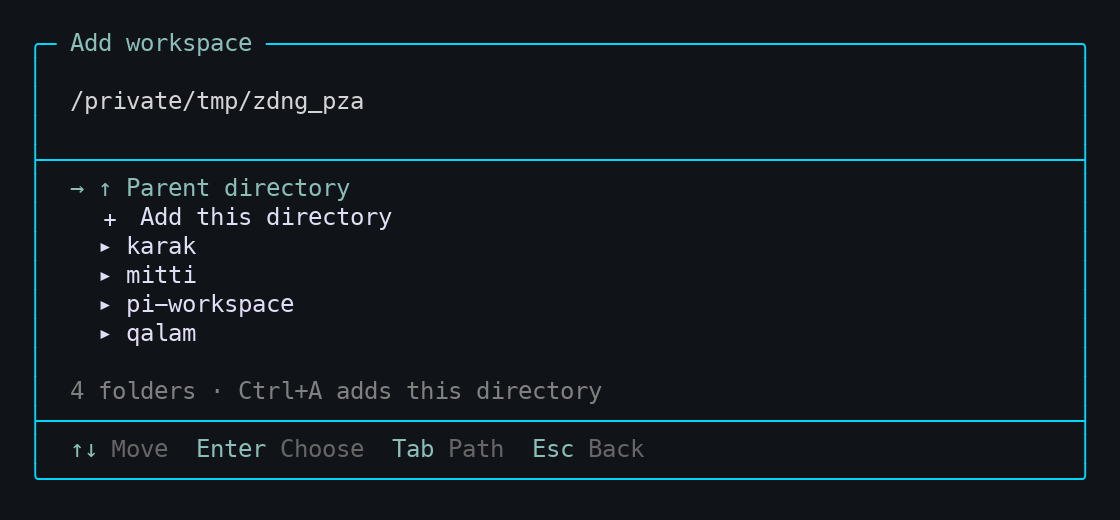
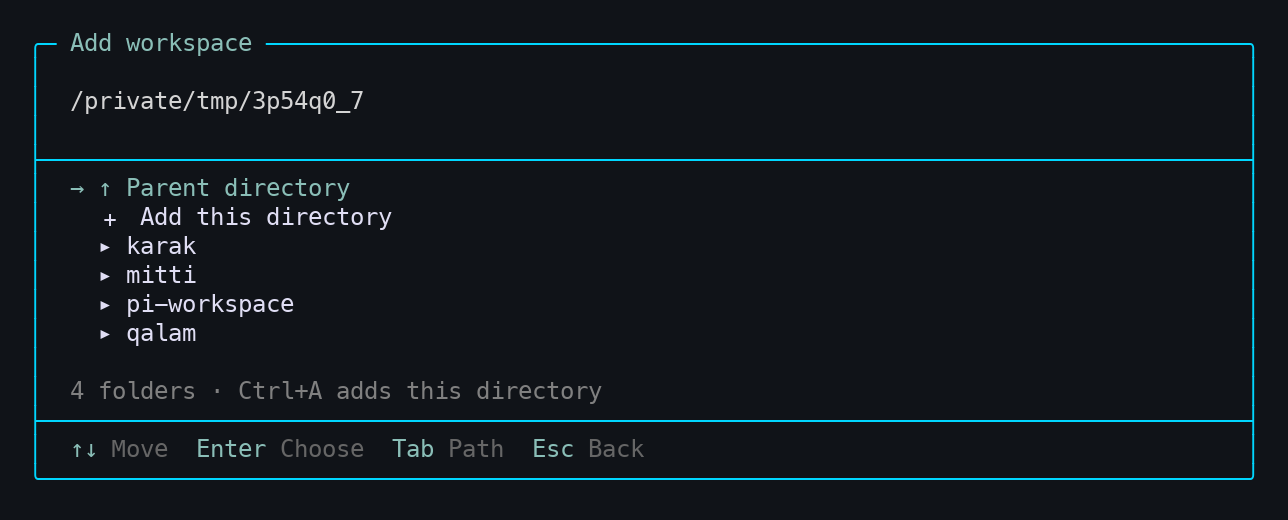
updated readme

diff --git a/src/picker.ts b/src/picker.ts
@@ -112,7 +112,7 @@ export class WorkspacePicker implements Component, Focusable {
           const count = this.sessions.filter((s) => s.workspace === item.path).length;
           choices.push({ value: item.path,
             label: `${item.path === this.activePath ? "●" : this.state.pinned.includes(item.path) ? "★" : " "} ${displayText(item.name)}`,
-            description: `${displayText(item.path)} · ${count ? `${count} sessions` : "New session"}` });
+            description: `${displayText(item.path)} · ${count ? `${count} session${count === 1 ? "" : "s"}` : "New session"}` });
         }
       }
     } else {
@@ -123,8 +123,8 @@ export class WorkspacePicker implements Component, Focusable {
         choices.push({ value: "new", label: "＋ New session", description: "Independent conversation in this project" });
       }
       for (const session of searchSessions(candidates, query, this.navigation?.contentSearch)) {
-        choices.push({ value: `session:${session.path}`, label: displayText(sessionTitle(session)),
-          description: `${this.mode === "search" ? `${displayText(basename(session.workspace))} · ` : ""}${session.modified.toISOString().slice(0, 16).replace("T", " ")} UTC` });
+        choices.push({ value: `session:${session.path}`, label: `${this.mode === "search" ? `${displayText(basename(session.workspace))} → ` : ""}${displayText(sessionTitle(session))}`,
+          description: `${session.modified.toISOString().slice(0, 16).replace("T", " ")} UTC${this.mode === "search" ? ` · ${displayText(session.workspace)}` : ""}` });
       }
       if (this.mode === "sessions" && query) choices.push({ value: "new", label: "＋ New session" });
     }
@@ -193,11 +193,20 @@ export class WorkspacePicker implements Component, Focusable {
     const label = contentWidth >= 20 ? "Search  " : "";
     const input = this.input.render(Math.max(1, contentWidth - label.length))[0] ?? "";
     const title = this.mode === "workspaces" ? "Switch workspace" : this.mode === "search" ? "Search all sessions" : `Sessions · ${displayText(this.destination?.name ?? "")}`;
-    const hint = this.mode === "workspaces" ? "↑↓ Move  Enter Sessions  ^A Add  ^P Pin  ^S Search  ^R Scan  Esc"
+    const hint = contentWidth < 28 ? "Enter  Esc" : this.mode === "workspaces"
+      ? contentWidth < 70 ? "↑↓  Enter  ^A  ^P  ^S  ^R  Esc" : "↑↓ Move  Enter Sessions  ^A Add  ^P Pin  ^S Search  ^R Scan  Esc"
       : "↑↓ Move  Enter Open  Esc Back";
-    const status = this.mode === "search" ? `project:name after:YYYY-MM-DD before:YYYY-MM-DD · ${this.navigation?.contentSearch ? "content enabled" : "metadata only"}` : this.message;
+    const footer = hint.split("  ").map((part) => {
+      const [key, ...words] = part.split(" ");
+      return this.theme.fg("accent", key) + (words.length ? ` ${this.theme.fg("dim", words.join(" "))}` : "");
+    }).join("  ");
+    const count = this.sessions.filter((s) => s.workspace === this.destination?.path).length;
+    const status = this.message || (this.mode === "search"
+      ? `project:name after:YYYY-MM-DD before:YYYY-MM-DD · ${this.navigation?.contentSearch ? "content enabled" : "metadata only"}`
+      : this.mode === "sessions" ? `${count} session${count === 1 ? "" : "s"} · ${this.destination?.path}`
+      : `${this.items.length} projects · ★ pinned · ● active`);
     return renderModal(this.theme, width, { title, top: this.theme.fg("dim", label) + input,
-      body: this.list.render(contentWidth), status: displayText(status), footer: this.theme.fg("dim", hint) });
+      body: this.list.render(contentWidth), status: displayText(status), footer });
   }
   invalidate(): void { this.input.invalidate(); this.list.invalidate(); this.browser?.invalidate(); }
   dispose(): void { this.browser?.dispose(); this.browser = undefined; }

diff --git a/src/index.ts b/src/index.ts
@@ -69,7 +69,7 @@ export default async function workspaceExtension(pi: ExtensionAPI) {
         const currentBranch = config.showBranch ? await gitBranch(cwd) : undefined;
         if (stopped) return;
         activePath = active; items = next; state = nextState; sessions = indexed; branch = currentBranch;
-        message = `${items.length} projects · ★ pinned · ● active`;
+        message = "";
       } catch (error) { if (!stopped) message = `Cannot load workspaces: ${String(error)}`; }
       finally { if (!stopped) { updatePicker(); status(ctx); } }
     })().finally(() => { refreshTask = undefined; });

diff --git a/scripts/capture-screenshots.py b/scripts/capture-screenshots.py
@@ -93,11 +93,17 @@ with tempfile.TemporaryDirectory(prefix="", dir="/tmp") as directory, \
     setup = """
       import {SessionManager} from '@earendil-works/pi-coding-agent';
       import {writeFileSync} from 'node:fs';
-      console.log(JSON.stringify(process.argv.slice(1).map(cwd => {
+      const create = (cwd, name) => {
         const sm=SessionManager.create(cwd);
         writeFileSync(sm.getSessionFile(),JSON.stringify(sm.getHeader())+'\\n');
+        SessionManager.open(sm.getSessionFile()).appendSessionInfo(name);
         return sm.getSessionFile();
-      })));
+      };
+      const dirs = process.argv.slice(1);
+      const files = dirs.map((cwd, i) => create(cwd, ['Workspace navigation', 'Optimize HTTP request handling', 'ASGI cleanup', 'Knowledge search'][i]));
+      create(dirs[1], 'Investigate free-threading');
+      create(dirs[1], 'Fix benchmark regressions');
+      console.log(JSON.stringify(files));
     """
     files = json.loads(subprocess.check_output(
         ["node", "--input-type=module", "-e", setup, *[str(projects / name) for name in names]],
@@ -105,6 +111,10 @@ with tempfile.TemporaryDirectory(prefix="", dir="/tmp") as directory, \
     ))
     for index, file in enumerate(files):
         os.utime(file, (time.time() - index * 60, time.time() - index * 60))
+    (Path(agent_directory) / "agent" / "workspace-state.json").write_text(json.dumps({
+        "version": 1, "pinned": [str(projects / "karak")], "recent": [str(projects / "mitti")],
+        "sessions": {str(projects / "karak"): files[1]}, "discovered": [],
+    }))
     master, slave = pty.openpty()
     fcntl.ioctl(slave, termios.TIOCSWINSZ, struct.pack("HHHH", 36, 110, 0, 0))
     proc = subprocess.Popen(
@@ -131,6 +141,11 @@ with tempfile.TemporaryDirectory(prefix="", dir="/tmp") as directory, \
         os.write(master, b"\x18")  # Ctrl+X
         drain(1)
         save_modal(screen, "Switch workspace", ASSETS / "workspace-picker.png")
+        os.write(master, b"karak\r")  # Search pinned workspace → session menu
+        drain(1)
+        save_modal(screen, "Sessions", ASSETS / "workspace-sessions.png")
+        os.write(master, b"\x1b")
+        drain(0.5)
         os.write(master, b"\x01")  # Ctrl+A
         drain(1)
         save_modal(screen, "Add workspace", ASSETS / "add-workspace.png")

diff --git a/docs/runtime-verification.md b/docs/runtime-verification.md
@@ -1,0 +1,68 @@
+# Runtime verification — source 0.2.0
+
+Tested against installed `@earendil-works/pi-coding-agent` **0.80.6** on macOS, with Node **22.23.2**. No Pi core changes are made.
+
+## New sessions in another directory
+
+The extension command `ctx.newSession()` does not accept a destination cwd in this Pi version. `SessionManager.create(cwd)` allocates a public session identity/path, but persistence is lazy and there is no public flush method.
+
+The implementation uses a small, explicit bridge:
+
+1. Validate and canonicalize the chosen directory.
+2. Call public `SessionManager.create(cwd)`.
+3. Read its public `getHeader()` and `getSessionFile()` values.
+4. Exclusively create the new file (`wx`, mode 0600) and write only that documented JSONL session header; sync and close it.
+5. Validate ownership, recheck idle state, and call public `ctx.switchSession(file, { withSession })`.
+6. In the fresh context, compare canonical runtime cwd, session cwd, and prompt-input cwd.
+
+Pi owns runtime construction, trust prompts, tool binding, resource loading, and later session writes. This never copies another session, changes `process.cwd()`, accesses private fields, or fabricates an assistant response to force persistence. The first user message is persisted normally when Pi opens the header-only file.
+
+The bridge is version-sensitive and must be re-tested when changing supported Pi versions. A future upstream `newSession({ cwd })` option should perform target validation, project trust, cwd-bound service construction, and fresh-context callbacks inside Pi itself. It would remove the need to materialize the initial header externally.
+
+## Verification coverage
+
+### Real SDK runtime: `tests/runtime-isolation.test.ts`
+
+Creates two isolated project directories and a temporary agent/session store, then replaces the actual `AgentSessionRuntime` A → B → A. For each destination it checks:
+
+- Runtime and session cwd.
+- Unique project `AGENTS.md` content, with the other project's marker absent.
+- Project-local settings values.
+- Correct local skills and extension source paths; no leaking source paths from the other project.
+- Independent saved conversation entries restored from Pi sessions.
+- `read`, `write`, `edit`, and `bash` taken from **`runtime.session.agent.state.tools`**, not independently constructed factories. Relative reads match destination markers, `pwd` reports the destination, and created/edited files do not appear in the other repository.
+
+Additional tests exercise empty first-session headers, wrong ownership, malformed/missing session files, and an idle-to-busy race during asynchronous validation.
+
+### Real TUI: `tests/tui-smoke.py`
+
+Runs the installed Pi executable in a pseudo-terminal with isolated HOME and agent storage. No API calls or real user conversations are used. It verifies:
+
+- Footer-only startup and automatic repository discovery from configured roots.
+- Two-step project/session navigation and preservation of unsent drafts.
+- A → B → A restoration, plus repeated previous-workspace toggles.
+- Explicit directory registration without an implicit workspace change.
+- First-session creation in an untouched directory and another fresh session in that same project.
+- Global session search opens the matching project's session.
+- Pin metadata persists.
+- An injected exception in a post-switch callback causes the interactive host to exit with status 1. The test records reaching the failure callback, so an unrelated startup error cannot satisfy this assertion.
+
+### Component and persistence tests
+
+Cover fuzzy matching, date/project filtering, opt-in content search, last-active session preference, stale-pointer fallback, empty-project session actions, modal bounds, directory browser navigation, registration validation, atomic metadata writes, concurrent writers, pins/recents, discovery bounds/depth/ignore/symlink policy, and config validation.
+
+## Failure behavior
+
+Before replacement, validation errors and busy-state rechecks leave the old runtime active. The extension blocks prompts, new user shell commands, and tool calls during its own transition window.
+
+Pi 0.80.6 tears down the old runtime **before** constructing the next one. In TUI mode, fatal replacement errors terminate Pi. The extension does not attempt rollback using a stale context. Verification callback errors intentionally propagate to the host's fatal handler.
+
+Metadata failures after successful replacement are reported separately; they do not pretend the runtime was rolled back. A cancelled first-session attempt may leave a harmless header-only session file.
+
+## Limits of the evidence
+
+- No LLM provider behavior is exercised. Model selection and CLI/project/session precedence remain Pi's responsibility.
+- Test fixtures explicitly trust their own project configuration in the SDK test. The CLI's real trust workflow is not bypassed by the extension.
+- Arbitrary shell/background processes, independent subagents, and malicious concurrent filesystem changes are outside this test boundary.
+- No cross-directory runtime rollback API is assumed.
+- This is not proof of correctness for all Pi versions, all terminals, all filesystems, or all third-party extensions. Linux and later Pi versions need their own verification runs.

diff --git a/docs/feasibility.md b/docs/feasibility.md
@@ -1,6 +1,8 @@
 # Pi Workspace — Phase 0 API assessment
 
-Status: source/API review only; Phase 0 exit criterion is **not yet demonstrated**.
+Historical assessment for source 0.0.1. **Update for 0.2.0:** first-session creation, live runtime/tool A → B → A isolation, session menus, and TUI failure behavior now have executable tests. See [runtime-verification.md](runtime-verification.md) for current evidence and limitations. The original investigation below is retained as design history; its unresolved first-session conclusions are superseded by the tested header-only bridge. Automatic restoration on plain Pi startup remains outside scope.
+
+Original status: source/API review only; Phase 0 exit criterion was **not yet demonstrated**.
 
 Inspected installed `@earendil-works/pi-coding-agent` **0.80.6** on macOS.
 No claim of compatibility with older releases or Linux runtime testing.
